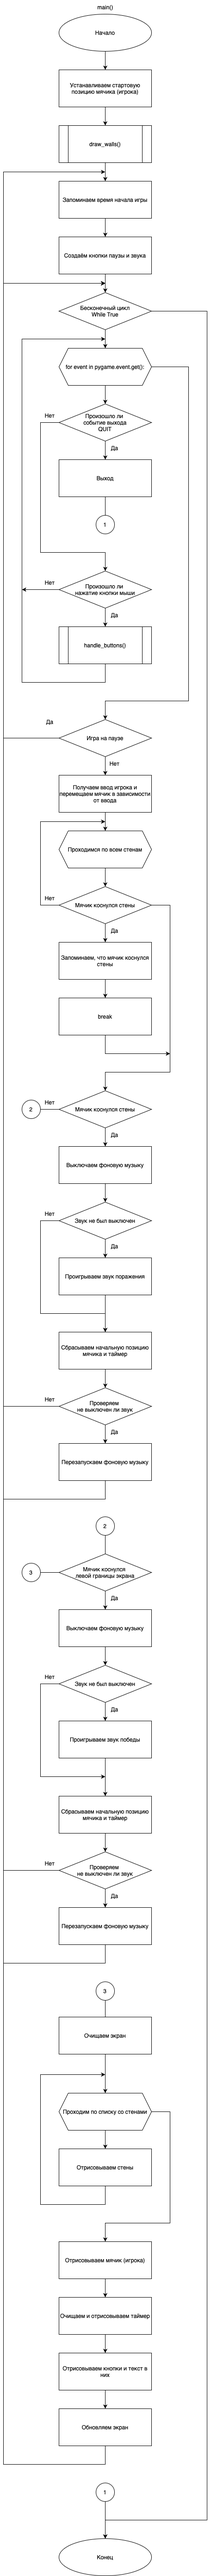
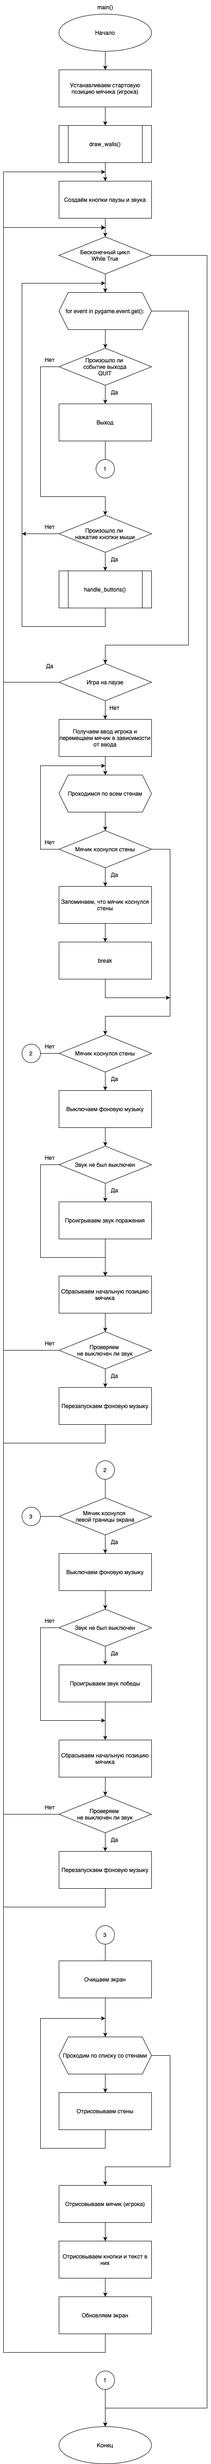
code + dimm

diff --git a/main.py b/main.py
@@ -1,7 +1,6 @@
 import os
 import pygame
 import random
-import time
 
 # Инициализация Pygame
 pygame.init()
@@ -49,15 +48,12 @@ pygame.mixer.music.play(-1)
 is_muted = False
 is_paused = False
 
-
 # Функция для отрисовки стен
 def draw_walls():
     lines = []
     for i in range(0, screen_width, line_gap):
         num_openings = random.randint(1, max_openings_per_line)
-        openings = sorted(
-            random.sample(range(line_offset + door_width, screen_height - line_offset - door_width - 40), num_openings))
-
+        openings = sorted(random.sample(range(line_offset + door_width, screen_height - line_offset - door_width - 40), num_openings))
         last_opening_bottom = 0
         for opening_top in openings:
             if last_opening_bottom < opening_top:
@@ -66,7 +62,6 @@ def draw_walls():
         if last_opening_bottom < screen_height - 40:
             lines.append(pygame.Rect(i, last_opening_bottom, line_width, screen_height - last_opening_bottom - 40))
     return lines
-
 
 # Функция для отображения сообщения
 def show_message(message):
@@ -77,7 +72,6 @@ def show_message(message):
     screen.blit(text, text_rect)
     pygame.display.update()
     pygame.time.delay(5000)
-
 
 # Функция для обработки паузы и звука
 def handle_buttons():
@@ -99,19 +93,12 @@ def handle_buttons():
         else:
             pygame.mixer.music.unpause()
 
-
 # Функция для отображения сообщения с результатом
-def show_time_message(elapsed_time, result_message):
+def show_time_message(result_message):
     font = pygame.font.Font(None, 36)
-    message = f"Время: {elapsed_time:.2f} секунд"
-    text = font.render(message, True, white)
-    text_rect = text.get_rect(center=(screen_width // 2, screen_height // 2 - 50))
-
-    screen.fill(black)
-    screen.blit(text, text_rect)
-
     result_text = font.render(result_message, True, white)
     result_text_rect = result_text.get_rect(center=(screen_width // 2, screen_height // 2 - 100))
+    screen.fill(black)
     screen.blit(result_text, result_text_rect)
 
     retry_button_rect = pygame.Rect((screen_width - 200) // 2, screen_height // 2, 200, 50)
@@ -141,14 +128,11 @@ def show_time_message(elapsed_time, result_message):
 
         pygame.display.update()
 
-
 # Основная функция
 def main():
-    global player_x, player_y, start_time
+    global player_x, player_y
     lines = draw_walls()
     clock = pygame.time.Clock()
-
-    start_time = time.time()
 
     global pause_button_rect, mute_button_rect
     pause_button_rect = pygame.Rect(screen_width - 210, screen_height - 35, 80, 30)
@@ -175,8 +159,7 @@ def main():
         elif keys[pygame.K_DOWN] and player_y < screen_height - player_radius - 40:
             player_y += player_speed
 
-        player_rect = pygame.Rect(player_x - player_radius, player_y - player_radius, player_radius * 2,
-                                  player_radius * 2)
+        player_rect = pygame.Rect(player_x - player_radius, player_y - player_radius, player_radius * 2, player_radius * 2)
         collided = False
 
         for line in lines:
@@ -188,11 +171,9 @@ def main():
             pygame.mixer.music.pause()
             if not is_muted:
                 defeat_sound.play()
-            elapsed_time = time.time() - start_time
-            show_time_message(elapsed_time, "Проигрыш!")
+            show_time_message("Проигрыш!")
             player_x = screen_width - 12
             player_y = screen_height - 60
-            start_time = time.time()
 
             if not is_muted:
                 pygame.mixer.music.play(-1)
@@ -202,11 +183,9 @@ def main():
             pygame.mixer.music.stop()
             if not is_muted:
                 victory_sound.play()
-            elapsed_time = time.time() - start_time
-            show_time_message(elapsed_time, "Победа!")
+            show_time_message("Победа!")
             player_x = screen_width - 12
             player_y = screen_height - 60
-            start_time = time.time()
 
             if not is_muted:
                 pygame.mixer.music.play(-1)
@@ -219,14 +198,6 @@ def main():
 
         pygame.draw.circle(screen, green, (player_x, player_y), player_radius)
 
-        timer_rect = pygame.Rect(0, screen_height - 30, screen_width, 30)
-        pygame.draw.rect(screen, black, timer_rect)
-
-        elapsed_time = time.time() - start_time
-        timer_font = pygame.font.Font(None, 36)
-        timer_text = timer_font.render(f"Время: {elapsed_time:.2f} сек", True, white)
-        screen.blit(timer_text, (10, screen_height - 30))
-
         pygame.draw.rect(screen, blue, pause_button_rect)
         pygame.draw.rect(screen, blue, mute_button_rect)
 
@@ -238,7 +209,6 @@ def main():
 
         pygame.display.update()
         clock.tick(60)
-
 
 # Запуск основной функции
 if __name__ == "__main__":

diff --git a/readme.md b/readme.md
@@ -13,17 +13,17 @@
 > Получаю:
 > 1) Звуковое сопровождение;
 > 2) Кнопка для отключения звукового сопровождения;
-> 2) Кнопка паузы.
+> 3) Кнопка паузы.
 
 ##### Системный анализ: #####
 
 > Входные данные: `None`    
 > Промежуточные данные: `int screen_width`, `int screen_height`, `tuple black`, `tuple white`, `tuple red`,
-`tuple green`, `tuple blue` `int line_width`, `int line_gap`, `int line_offset`, `int door_width`,
+`tuple green`, `tuple blue`, `int line_width`, `int line_gap`, `int line_offset`, `int door_width`,
 `int max_openings_per_line`, `int player_radius`, `int player_speed`, `int player_x`, `int player_y`, `bool is_muted`,
 `bool is_paused`, `list lines`, `int num_openings`, `list openings`, `int last_opening_bottom`,
-`int button_width`, `int button_height`, `float start_time`, `bool collided`, `float elapsed_time`     
-> Выходные данные: `background_image`, `victory_sound`, `defeat_sound`, `float elapsed_time`
+`int button_width`, `int button_height`, `bool collided`    
+> Выходные данные: `background_image`, `victory_sound.mp3`, `defeat_sound.mp3`, `game_music.mp3`
 ##### Блок схема: #####
 
 ![dimm1.png](dimm1.png)
@@ -33,7 +33,6 @@
 import os
 import pygame
 import random
-import time
 
 # Инициализация Pygame
 pygame.init()
@@ -81,15 +80,12 @@ pygame.mixer.music.play(-1)
 is_muted = False
 is_paused = False
 
-
 # Функция для отрисовки стен
 def draw_walls():
     lines = []
     for i in range(0, screen_width, line_gap):
         num_openings = random.randint(1, max_openings_per_line)
-        openings = sorted(
-            random.sample(range(line_offset + door_width, screen_height - line_offset - door_width - 40), num_openings))
-
+        openings = sorted(random.sample(range(line_offset + door_width, screen_height - line_offset - door_width - 40), num_openings))
         last_opening_bottom = 0
         for opening_top in openings:
             if last_opening_bottom < opening_top:
@@ -98,7 +94,6 @@ def draw_walls():
         if last_opening_bottom < screen_height - 40:
             lines.append(pygame.Rect(i, last_opening_bottom, line_width, screen_height - last_opening_bottom - 40))
     return lines
-
 
 # Функция для отображения сообщения
 def show_message(message):
@@ -109,7 +104,6 @@ def show_message(message):
     screen.blit(text, text_rect)
     pygame.display.update()
     pygame.time.delay(5000)
-
 
 # Функция для обработки паузы и звука
 def handle_buttons():
@@ -131,19 +125,12 @@ def handle_buttons():
         else:
             pygame.mixer.music.unpause()
 
-
 # Функция для отображения сообщения с результатом
-def show_time_message(elapsed_time, result_message):
+def show_time_message(result_message):
     font = pygame.font.Font(None, 36)
-    message = f"Время: {elapsed_time:.2f} секунд"
-    text = font.render(message, True, white)
-    text_rect = text.get_rect(center=(screen_width // 2, screen_height // 2 - 50))
-
-    screen.fill(black)
-    screen.blit(text, text_rect)
-
     result_text = font.render(result_message, True, white)
     result_text_rect = result_text.get_rect(center=(screen_width // 2, screen_height // 2 - 100))
+    screen.fill(black)
     screen.blit(result_text, result_text_rect)
 
     retry_button_rect = pygame.Rect((screen_width - 200) // 2, screen_height // 2, 200, 50)
@@ -173,14 +160,11 @@ def show_time_message(elapsed_time, result_message):
 
         pygame.display.update()
 
-
 # Основная функция
 def main():
-    global player_x, player_y, start_time
+    global player_x, player_y
     lines = draw_walls()
     clock = pygame.time.Clock()
-
-    start_time = time.time()
 
     global pause_button_rect, mute_button_rect
     pause_button_rect = pygame.Rect(screen_width - 210, screen_height - 35, 80, 30)
@@ -207,8 +191,7 @@ def main():
         elif keys[pygame.K_DOWN] and player_y < screen_height - player_radius - 40:
             player_y += player_speed
 
-        player_rect = pygame.Rect(player_x - player_radius, player_y - player_radius, player_radius * 2,
-                                  player_radius * 2)
+        player_rect = pygame.Rect(player_x - player_radius, player_y - player_radius, player_radius * 2, player_radius * 2)
         collided = False
 
         for line in lines:
@@ -220,11 +203,9 @@ def main():
             pygame.mixer.music.pause()
             if not is_muted:
                 defeat_sound.play()
-            elapsed_time = time.time() - start_time
-            show_time_message(elapsed_time, "Проигрыш!")
+            show_time_message("Проигрыш!")
             player_x = screen_width - 12
             player_y = screen_height - 60
-            start_time = time.time()
 
             if not is_muted:
                 pygame.mixer.music.play(-1)
@@ -234,11 +215,9 @@ def main():
             pygame.mixer.music.stop()
             if not is_muted:
                 victory_sound.play()
-            elapsed_time = time.time() - start_time
-            show_time_message(elapsed_time, "Победа!")
+            show_time_message("Победа!")
             player_x = screen_width - 12
             player_y = screen_height - 60
-            start_time = time.time()
 
             if not is_muted:
                 pygame.mixer.music.play(-1)
@@ -251,14 +230,6 @@ def main():
 
         pygame.draw.circle(screen, green, (player_x, player_y), player_radius)
 
-        timer_rect = pygame.Rect(0, screen_height - 30, screen_width, 30)
-        pygame.draw.rect(screen, black, timer_rect)
-
-        elapsed_time = time.time() - start_time
-        timer_font = pygame.font.Font(None, 36)
-        timer_text = timer_font.render(f"Время: {elapsed_time:.2f} сек", True, white)
-        screen.blit(timer_text, (10, screen_height - 30))
-
         pygame.draw.rect(screen, blue, pause_button_rect)
         pygame.draw.rect(screen, blue, mute_button_rect)
 
@@ -270,7 +241,6 @@ def main():
 
         pygame.display.update()
         clock.tick(60)
-
 
 # Запуск основной функции
 if __name__ == "__main__":
@@ -302,9 +272,7 @@ if __name__ == "__main__":
    `draw_walls()`: Функция для отрисовки стен лабиринта, генерирующая случайные отверстия в стенах и возвращающая их
    позиции в виде списка прямоугольников.  
    `show_message(message)`: Функция для отображения текстовых сообщений (например, "Победа!" или "Проигрыш!") на
-   экране.  
-   `show_time_message(elapsed_time, result_message)`: Функция для отображения сообщения с прошедшим временем и
-   результатом игры.  
+   экране.
    `handle_buttons()`: Функция для обработки нажатий на кнопки паузы и звука.
 ##### Вывод по проделанной работе: #####
 
